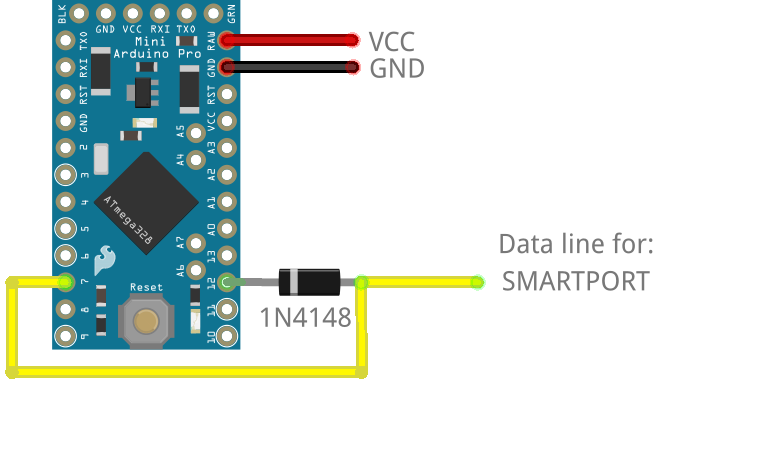
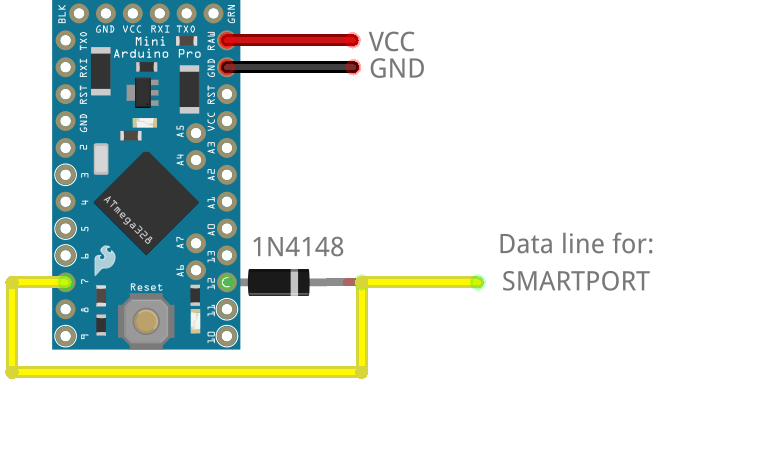
Fix half duplex softserial

Changed region(s): [[0.3007, 0.5254, 0.481, 0.7417]]

diff --git a/msrc/softserial.cpp b/msrc/softserial.cpp
@@ -69,7 +69,7 @@ void SoftSerial::PCINT_handler()
 
 void SoftSerial::initWrite()
 {
-    //DDRB |= _BV(DDB4);
+    DDRB |= _BV(DDB4);
 
     uint8_t outgoingByte = readTx();
     uint8_t oldSREG = SREG;
@@ -117,7 +117,7 @@ void SoftSerial::initWrite()
         setPinHigh;
     }
 
-    //DDRB &= ~_BV(DDB4);
+    DDRB &= ~_BV(DDB4);
 
     SREG = oldSREG;
     _delay_loop_2(tx_delay);
@@ -147,11 +147,9 @@ void SoftSerial::begin(uint32_t baud, uint8_t format)
     //     2560:    PIN D10 (PB4)
     //     32U4:    PIN B4  (PB4)
 
-    PORTx |= _BV(PORTxn);   // PULLUP
+    //PORTx |= _BV(PORTxn); // PULLUP
     PCICR |= _BV(PCIEx);    // ENABLE PCINT
     PCMSKx |= _BV(PCINTxn); // PCINT MASK
-
-    DDRB |= _BV(DDB4);
 
     inverted_ = format & 0x40;
     if (inverted_)

diff --git a/README.md b/README.md
@@ -61,17 +61,16 @@ ATmega boards at 5v (16Mhz) may not read properly serial port when using ESC ser
 | PWM out | 10 | 10 | 7 | B6(A10) | 22 |
 | Rx Castle | 8 | 8 | 49 | C7 | 16 |
 | ESC Castle<sup>(1)</sup> | 2 & 10 | 2 & 22 | 45 & 48 | C8 & B6 | 2 & 6 |
-| Frsky Smartport, SBUS<sup>(4)</sup> | 7 & 12<sup>(5)</sup> | 7 & 12<sup>(5)</sup> | A15 & D10<sup>(5)</sup> | B3 & B4<sup>(5)</sup><br/>(15 & 16) | 1 |
+| Frsky Smartport, SBUS<sup>(4)</sup> | 7 & 12<sup>(2)</sup> | 7 & 12<sup>(2)</sup> | A15 & D10<sup>(2)</sup> | B3 & B4<sup>(2)</sup><br/>(15 & 16) | 1 |
 | Frsky D | 12 | 12 | D10 | B4(16) | 1 |
 | SRXL, IBUS, SB | RX & TX<sup>(2)</sup> | 12(RX1) & 11(TX1)<sup>(2)</sup> | 15(RX3) & 14(TX3)<sup>(2)</sup> | D2(RX1) & D3(TX1)<sup>(2)</sup> | 1 |
 | XBUS or sensor SDA | A4 | A4 | 20 | D1(2) | 18<sup>(3)</sup> |
 | XBUS or sensor SCL | A5 | A5 | 21 | D0(3) | 19<sup>(3)</sup> |
 
 (1) with pull up 3.3k  
-(2) diode 1N4148 (alternatively 100Ω resistor or conntect both pins directly)  
+(2) diode 1N4148 (alternatively 100Ω resistor or conntect both pins directly). Note the inverted orientation of the diode for Frsky and SBUS due to the inverted logic  
 (3) If using i2c_t3 library connect I2C sensor to pins 23 (SDA1) and 22 (SCL1)  
 (4) Use ATmega 16Mhz or Teensy LC/3.x (If using ATmega 8Mhz, it is needed a signal inverter and connect it to UART)  
-(5) diode 1N4148 (alternatively 1k resistor. Don't conntect both pins directly)  
 
 
 ## 2. Receiver protocol
